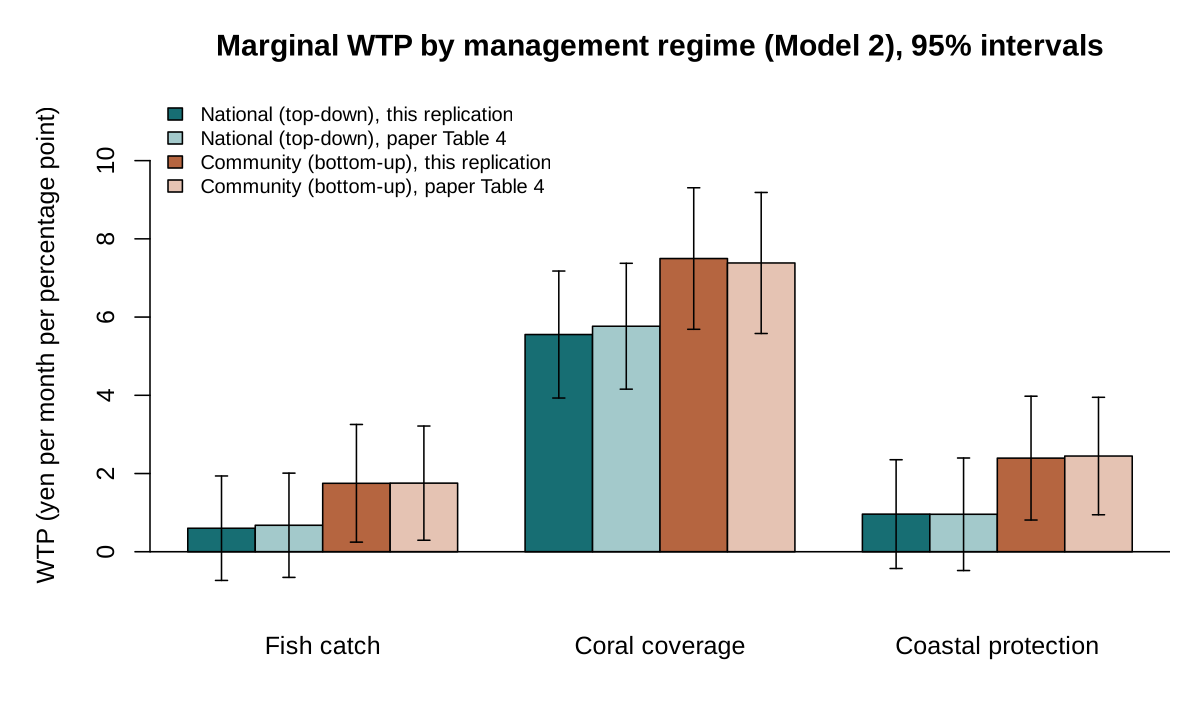
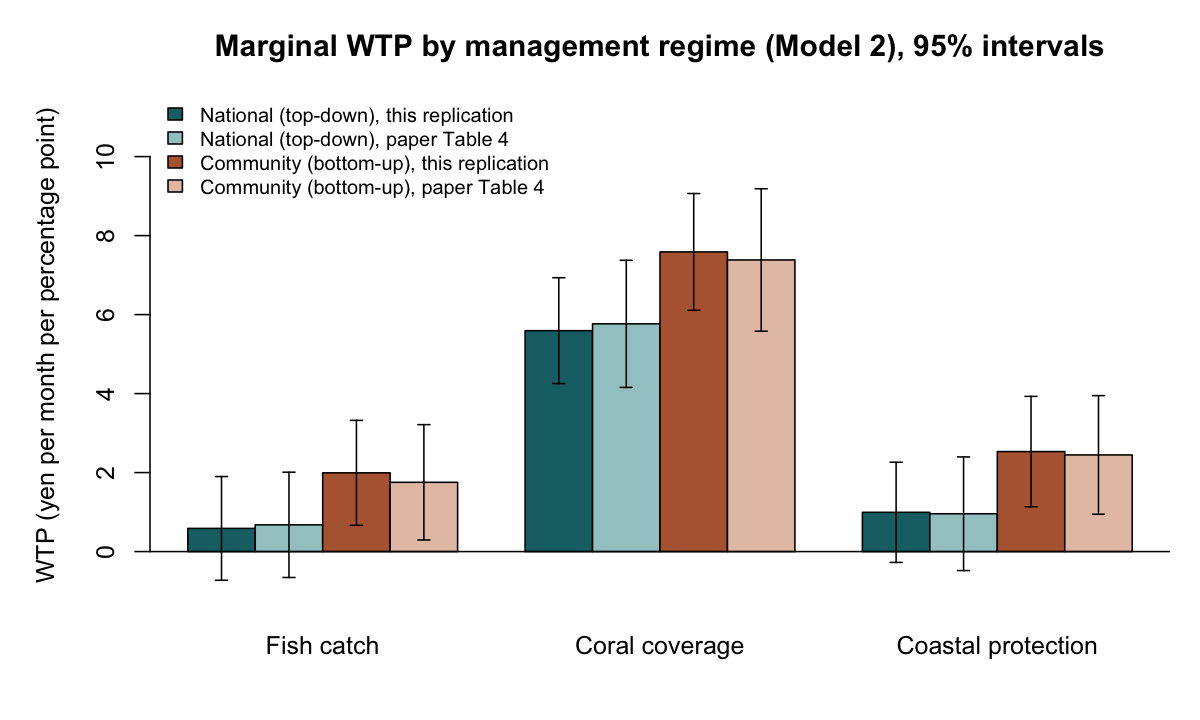
Add mlogit outputs and run log from a clean fresh-clone run; update README

diff --git a/README.md b/README.md
@@ -19,7 +19,7 @@ Neither file is over 50 MB (1.2 MB and 0.6 MB).
 
 ## How to run
 
-Requires R 4.1 or newer with the `haven` and `readxl` packages (`install.packages(c("haven", "readxl"))`). From the repo root:
+Requires R 4.1 or newer with the `mlogit`, `dfidx`, `haven` and `readxl` packages (`install.packages(c("mlogit", "dfidx", "haven", "readxl"))`). From the repo root:
 
 ```
 Rscript run_all.R > logs/run_log.txt 2>&1
@@ -32,18 +32,17 @@ Rscript run_all.R > logs/run_log.txt 2>&1
 - `run_all.R`: master script; runs every step below in order, then prints `sessionInfo()`.
 - `code/01_check_data.R`: checks file hashes, panel structure, and that the two data files agree; writes `outputs/data_checks.csv`.
 - `code/02_table2_descriptives.R`: reproduces Table 2 (respondent characteristics by survey version); writes `outputs/table2_descriptives.csv` and `outputs/table2_income_sensitivity.csv`.
-- `code/03_mixed_logit_tables3_4.R`: estimates Models 1 and 2 (Table 3) and WTP (Table 4) next to the published values; writes `outputs/table3_coefficients.csv`, `outputs/table4_wtp.csv` and `outputs/model_summary.csv`.
+- `code/03_mixed_logit_tables3_4.R`: estimates Models 1 and 2 (Table 3) with `mlogit` and WTP (Table 4) next to the published values; writes `outputs/table3_coefficients.csv`, `outputs/table4_wtp.csv` and `outputs/model_summary.csv`.
 - `code/04_figure1_wtp.R`: draws attribute WTP by management regime, ours beside the paper's; writes `outputs/figure1_wtp.png` and `.pdf`.
-- `code/mixed_logit_functions.R`: the panel mixed logit estimator (simulated maximum likelihood with Halton draws) used by step 3.
 - `data/raw/`: the two raw data files described above.
 - `outputs/`: everything the scripts produce; regenerated by `run_all.R`.
 - `logs/run_log.txt`: full output of the clean run described below.
 
 ## Software and run time
 
-The committed outputs and log come from a clean run on 2026-11-09: I cloned this repository from GitHub into an empty folder, deleted `outputs/`, and ran the command above. The full run took 403 seconds (about 6.7 minutes; nearly all of it the two mixed logit models) on a 4-core Linux machine.
+The committed outputs and log come from a clean run on 2026-11-09: I cloned this repository from GitHub into an empty folder, deleted `outputs/`, and ran the command above. The full run took 139.5 seconds (about 2.3 minutes; nearly all of it the two mixed logit models) on an Apple M3 Mac.
 
-From `sessionInfo()` at the end of `logs/run_log.txt`: R 4.3.3 on Ubuntu 24.04.5 LTS (x86_64), with haven 2.5.4 and readxl 1.4.3. Everything else is base R (stats, graphics, grDevices, utils, tools).
+From `sessionInfo()` at the end of `logs/run_log.txt`: R 4.5.1 (aarch64-apple-darwin20) on macOS Tahoe 26.5.2, with mlogit 2.0-0, dfidx 0.2-0, haven 2.5.5 and readxl 1.6.0. The log's one warning says the installed mlogit binary was built under R 4.5.2; it does not affect the run.
 
 ## What did and did not reproduce
 
@@ -51,20 +50,20 @@ Table 2 reproduces: all ten group means match the paper to two decimals. The age
 
 The sample is 824 respondents (422 national, 402 community), not the paper's 827. The posted data are short three community respondents, and I could not find them.
 
-Table 3 mostly reproduces. Every main-effect attribute and payment coefficient in both models is within 0.0008 of the published value, with the same significance level. The ASC (the value of any protected area over the status quo) is smaller: 7.85 vs 8.22 in Model 1 and 7.85 vs 8.46 in Model 2, though still highly significant. The community interactions are the weakest part. The four attribute and payment interactions have the paper's signs, but coral × community is significant at 10% (paper: 5%), and coastal × community and payment × community are not significant (paper: 10% and 5%). ASC × community is −0.17 and not significant (paper: 0.225, not significant).
+Table 3 mostly reproduces. Every main-effect attribute and payment coefficient in both models is within 0.0004 of the published value, with the same significance level. The ASC (the value of any protected area over the status quo) is smaller: 7.61 vs 8.22 in Model 1 and 7.55 vs 8.46 in Model 2, though still highly significant. Three of the five community interactions match the paper in sign and significance: fish × community (0.0084, not significant; paper 0.0076, not significant), coral × community (0.0138, 5%; paper 0.0168, 5%) and coastal × community (0.0093, 10%; paper 0.0105, 10%). Payment × community has the paper's sign but is smaller and not significant (−0.0004; paper −0.0011, 5%). ASC × community is 0.98 and significant at 5% (paper 0.225, not significant). The log-likelihoods are −3126.41 (Model 1) and −3119.21 (Model 2).
 
-Table 4 reproduces closely. Attribute WTPs are within about 11% of the paper, and seven of the nine are within 5%; and WTP is higher under community management for all three attributes, as the paper finds. ASC WTP is 1,399 yen pooled (paper 1,489), 1,420 national (paper 1,632) and 1,355 community (paper 1,374), in the same order as the paper.
+Table 4 mostly reproduces. Attribute WTPs are within 14% of the paper, and six of the nine are within 5%. WTP is higher under community management for all three attributes, as the paper finds, and the same WTPs are significant (national fish catch and coastal protection are not). ASC WTP is 1,361 yen pooled (paper 1,489), 1,406 national (paper 1,632) and 1,476 community (paper 1,374), so community comes out above national, the reverse of the paper's order.
 
 Table 5 (the marginal rate of substitution between natural and man-made capital) is not replicated here.
 
-The ASC terms are only weakly pinned down. The ASC's standard deviation is large (about 8.8), so the simulated likelihood is flat in that direction. My team's earlier runs with mlogit and xlogit stopped at a slightly lower log-likelihood (Model 1: −3126.41 vs −3124.72 here; Model 2: −3119.21 vs −3119.20) with an ASC × community estimate of 0.98. That run also found that the ASC terms move by about as much as these gaps when the number or type of draws changes. The paper does not report its software or number of draws, so I could not match those.
+The ASC differences should be read with care. The ASC's standard deviation is large (about 8.4 to 8.8), so the simulated likelihood is flat in that direction and the ASC terms depend on the draws. These results match my team's mlogit run exactly, and the team's draw check (500 to 2000 Halton draws and three pseudo-random seeds) found the ASC terms moving by about as much as their gap from the paper: Model 2 ASC × community ranged from −0.01 to 0.98, and community ASC WTP fell below national in three of the six settings. The paper does not report its software or number of draws, so I could not match those.
 
 ## Estimation software
 
-My team estimated these models in R with the `mlogit` package (Zoey Miles's specification). `mlogit` could not be installed on the machine used for the clean run: Ubuntu does not package it, and the machine could not reach CRAN or another R package repository. So `code/mixed_logit_functions.R` implements the same model in base R: every coefficient an independent normal random parameter, draws shared across a respondent's six choices, 500 Halton draws, and the same starting values as the team's code. It uses the Halton convention of the team's Python cross-check (xlogit). At the team's estimates it gives exactly the team's log-likelihood, which confirms it computes the same likelihood, and its analytic gradient matches a numerical one. It alternates two optimizers until the log-likelihood stops improving, then takes standard errors from the inverse of the numerically differentiated Hessian.
+The mixed logit models are estimated with the `mlogit` package using my team's specification from Zoey Miles's `ReplicationRevised.qmd`.
 
 ## Credits and AI use
 
 The model specification, sample handling and Table 2 logic come from my team's shared repository (Team 1: Miles Z., Hyde W., Wickboldt E., Neralla H.); Zoey Miles wrote the original R code.
 
-I used Claude, Anthropic's AI assistant, to assemble this repository: it wrote the R scripts (including the mixed logit estimator, checked against the team's results as described above), ran the clean fresh-clone check, and drafted this README. I am responsible for the content.
+I used Claude Code, Anthropic's AI coding assistant: it wrote and ran the R code, including the fresh-clone check, and drafted this README. I am responsible for the content.
